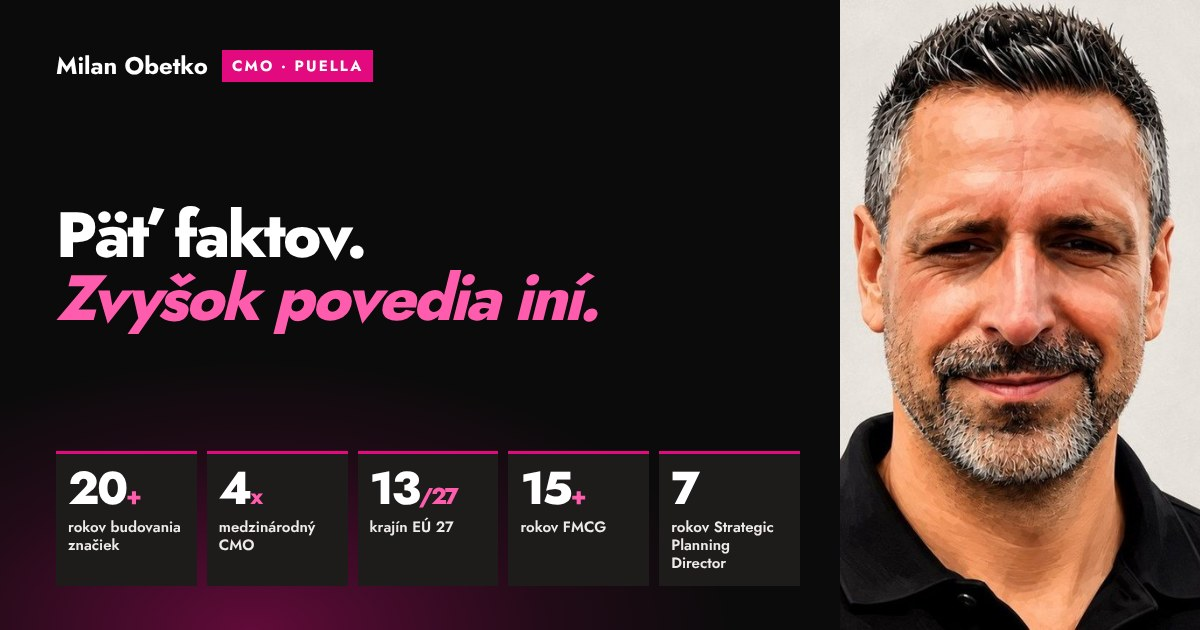
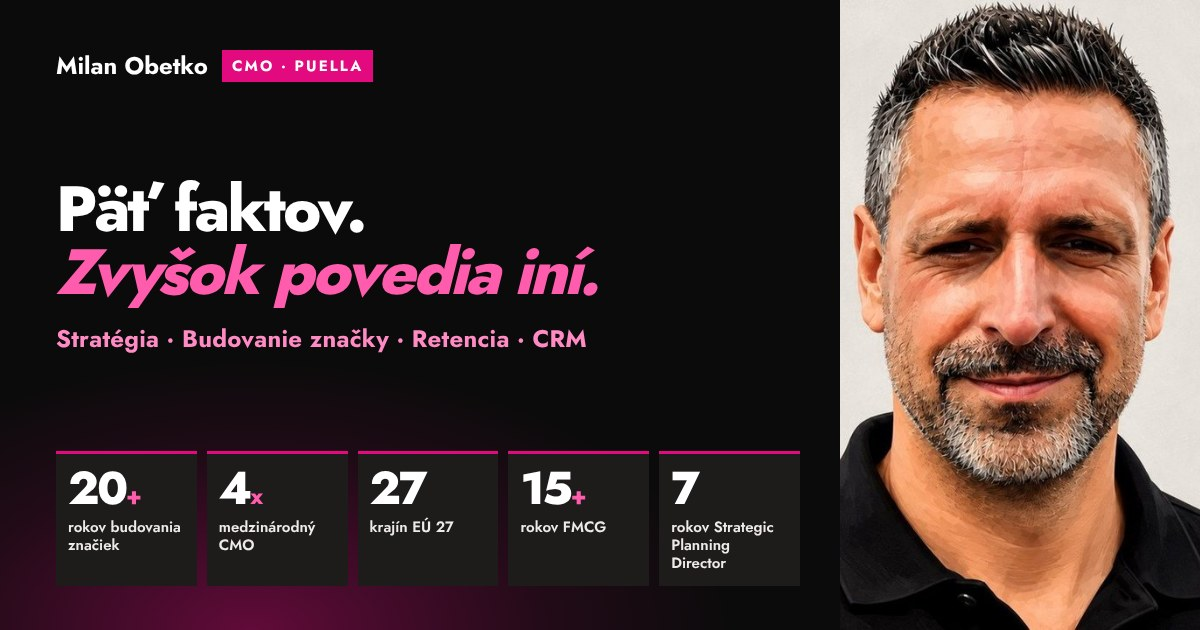
puella-cmo: focus areas (strategy, brand building, retention, CRM), 200+ strategy projects, countries fact 27
Claude-Session: https://claude.ai/code/session_01ANGM1QGY7x3AvuPiXAwH37

Changed region(s): [[0.0308, 0.2714, 0.4933, 0.573], [0.3083, 0.754, 0.4008, 0.8143]]

diff --git a/puella-cmo/index.html b/puella-cmo/index.html
@@ -7,13 +7,13 @@
 <meta name="theme-color" content="#0B0B0B">
 <meta name="robots" content="noindex, nofollow">
 <title>Milan Obetko - CMO pre Puellu. 5 faktov a 36 referencií</title>
-<meta name="description" content="Milan Obetko, CMO pre Puellu: 20+ rokov budovania značiek, 4x medzinárodný CMO, 13 z 27 krajín EÚ, 15+ rokov FMCG, 7 rokov agentúrny Strategic Planning Director. A 36 referencií s menom.">
+<meta name="description" content="Milan Obetko, CMO pre Puellu: 20+ rokov budovania značiek, 4x medzinárodný CMO, 27 krajín EÚ, 15+ rokov FMCG, 7 rokov agentúrny Strategic Planning Director. A 36 referencií s menom.">
 <link rel="canonical" href="https://milanobetko.com/puella-cmo/">
 <meta property="og:type" content="website">
 <meta property="og:url" content="https://milanobetko.com/puella-cmo/">
 <meta property="og:locale" content="sk_SK"><meta property="og:site_name" content="Milan Obetko">
 <meta property="og:title" content="Milan Obetko - CMO pre Puellu. Päť faktov, zvyšok povedia iní.">
-<meta property="og:description" content="20+ rokov budovania značiek, 4x medzinárodný CMO, 13 z 27 krajín EÚ, 15+ rokov FMCG, 7 rokov Strategic Planning Director. A 36 referencií s menom.">
+<meta property="og:description" content="20+ rokov budovania značiek, 4x medzinárodný CMO, 27 krajín EÚ, 15+ rokov FMCG, 7 rokov Strategic Planning Director. A 36 referencií s menom.">
 <meta property="og:image" content="https://milanobetko.com/puella-cmo/og-image.jpg">
 <meta property="og:image:type" content="image/jpeg">
 <meta property="og:image:width" content="1200">
@@ -144,7 +144,14 @@ footer a:hover{color:var(--white)}
 <style>
 /* Five facts and the arrows into the references */
 .facts-sec{padding-block:clamp(44px,6vw,88px) 0;background:radial-gradient(60% 30% at 50% 66%,rgba(226,10,126,.24) 0%,rgba(226,10,126,.08) 45%,rgba(11,11,11,0) 72%)}
-.facts{list-style:none;margin:clamp(36px,5vw,64px) 0 0;padding:0;display:grid;grid-template-columns:repeat(5,minmax(0,1fr));gap:14px}
+.focus{list-style:none;margin:clamp(26px,3vw,36px) 0 0;padding:0;display:flex;flex-wrap:wrap;gap:10px}
+.focus li{display:inline-flex;align-items:baseline;gap:10px;border:2px solid var(--acc);padding:10px 20px;font-size:clamp(19px,1.9vw,25px);font-weight:800;letter-spacing:-.01em;line-height:1.1}
+.focus li:first-child{background:var(--acc)}
+.focus small{font-size:.62em;font-weight:700;letter-spacing:.02em;color:#FFE3F1}
+.fnote{margin:14px 0 0;font-size:clamp(16px,1.4vw,18px);color:var(--t2)}
+.fnote b{color:var(--white)}
+@media (max-width:560px){.focus{gap:8px}.focus li{padding:8px 14px;font-size:18px}}
+.facts{list-style:none;margin:clamp(30px,4vw,48px) 0 0;padding:0;display:grid;grid-template-columns:repeat(5,minmax(0,1fr));gap:14px}
 .fact{background:var(--card);border-top:3px solid var(--acc);padding:22px 20px 24px}
 .fact b{display:block;font-size:clamp(52px,5.4vw,80px);font-weight:800;letter-spacing:-.055em;line-height:.9;color:var(--white);font-variant-numeric:tabular-nums}
 .fact b small{font-size:.5em;letter-spacing:-.03em;color:var(--acct);margin-left:2px}
@@ -172,10 +179,12 @@ footer a:hover{color:var(--white)}
 <section class="facts-sec" id="fakty" aria-labelledby="h-fakty"><div class="wrap">
 <p class="eyebrow">CMO · Brand · Retencia <span>/ Puella</span></p>
 <h1 id="h-fakty">Päť faktov. <em>Zvyšok povedia iní.</em></h1>
+<ul class="focus" aria-label="Zameranie"><li>Stratégia<small>200+ projektov</small></li><li>Budovanie značky</li><li>Retencia</li><li>CRM</li></ul>
+<p class="fnote"><b>200+ strategických projektov:</b> marketing, značky, kampane, launche a vstupy na trhy.</p>
 <ul class="facts">
 <li class="fact"><b>20<small>+</small></b><p class="fl">rokov budovania značiek</p><p class="fs">Od brand managementu v Heinekene a Groupe Bel po CMO.</p></li>
 <li class="fact"><b>4<small>x</small></b><p class="fl">medzinárodný CMO / Marketing Director</p><p class="fs">SkyEurope, Yoplait, Subway, Edimo.</p></li>
-<li class="fact"><b>13<small>/27</small></b><p class="fl">krajín EÚ 27, v ktorých som viedol marketing</p><p class="fs">Subway, 13 krajín: Albánsko, Bulharsko, Česko, Estónsko, Gruzínsko, Chorvátsko, Litva, Lotyšsko, Maďarsko, Poľsko, Rumunsko, Slovensko, Slovinsko. A Vietnam.</p></li>
+<li class="fact"><b>27</b><p class="fl">krajín EÚ 27</p><p class="fs">Subway, 13 krajín: Albánsko, Bulharsko, Česko, Estónsko, Gruzínsko, Chorvátsko, Litva, Lotyšsko, Maďarsko, Poľsko, Rumunsko, Slovensko, Slovinsko. A Vietnam.</p></li>
 <li class="fact"><b>15<small>+</small></b><p class="fl">rokov pre najlepšie FMCG firmy sveta</p><p class="fs">5 z globálnej Top 10. Aj Ariel, Tide, Febreze, Ambi Pur a Domestos.</p></li>
 <li class="fact"><b>7</b><p class="fl">rokov ako agentúrny Strategic Planning Director</p><p class="fs">WPP Media (MediaCom, Mindshare), DDB, OMD, PHD.</p></li>
 </ul>
